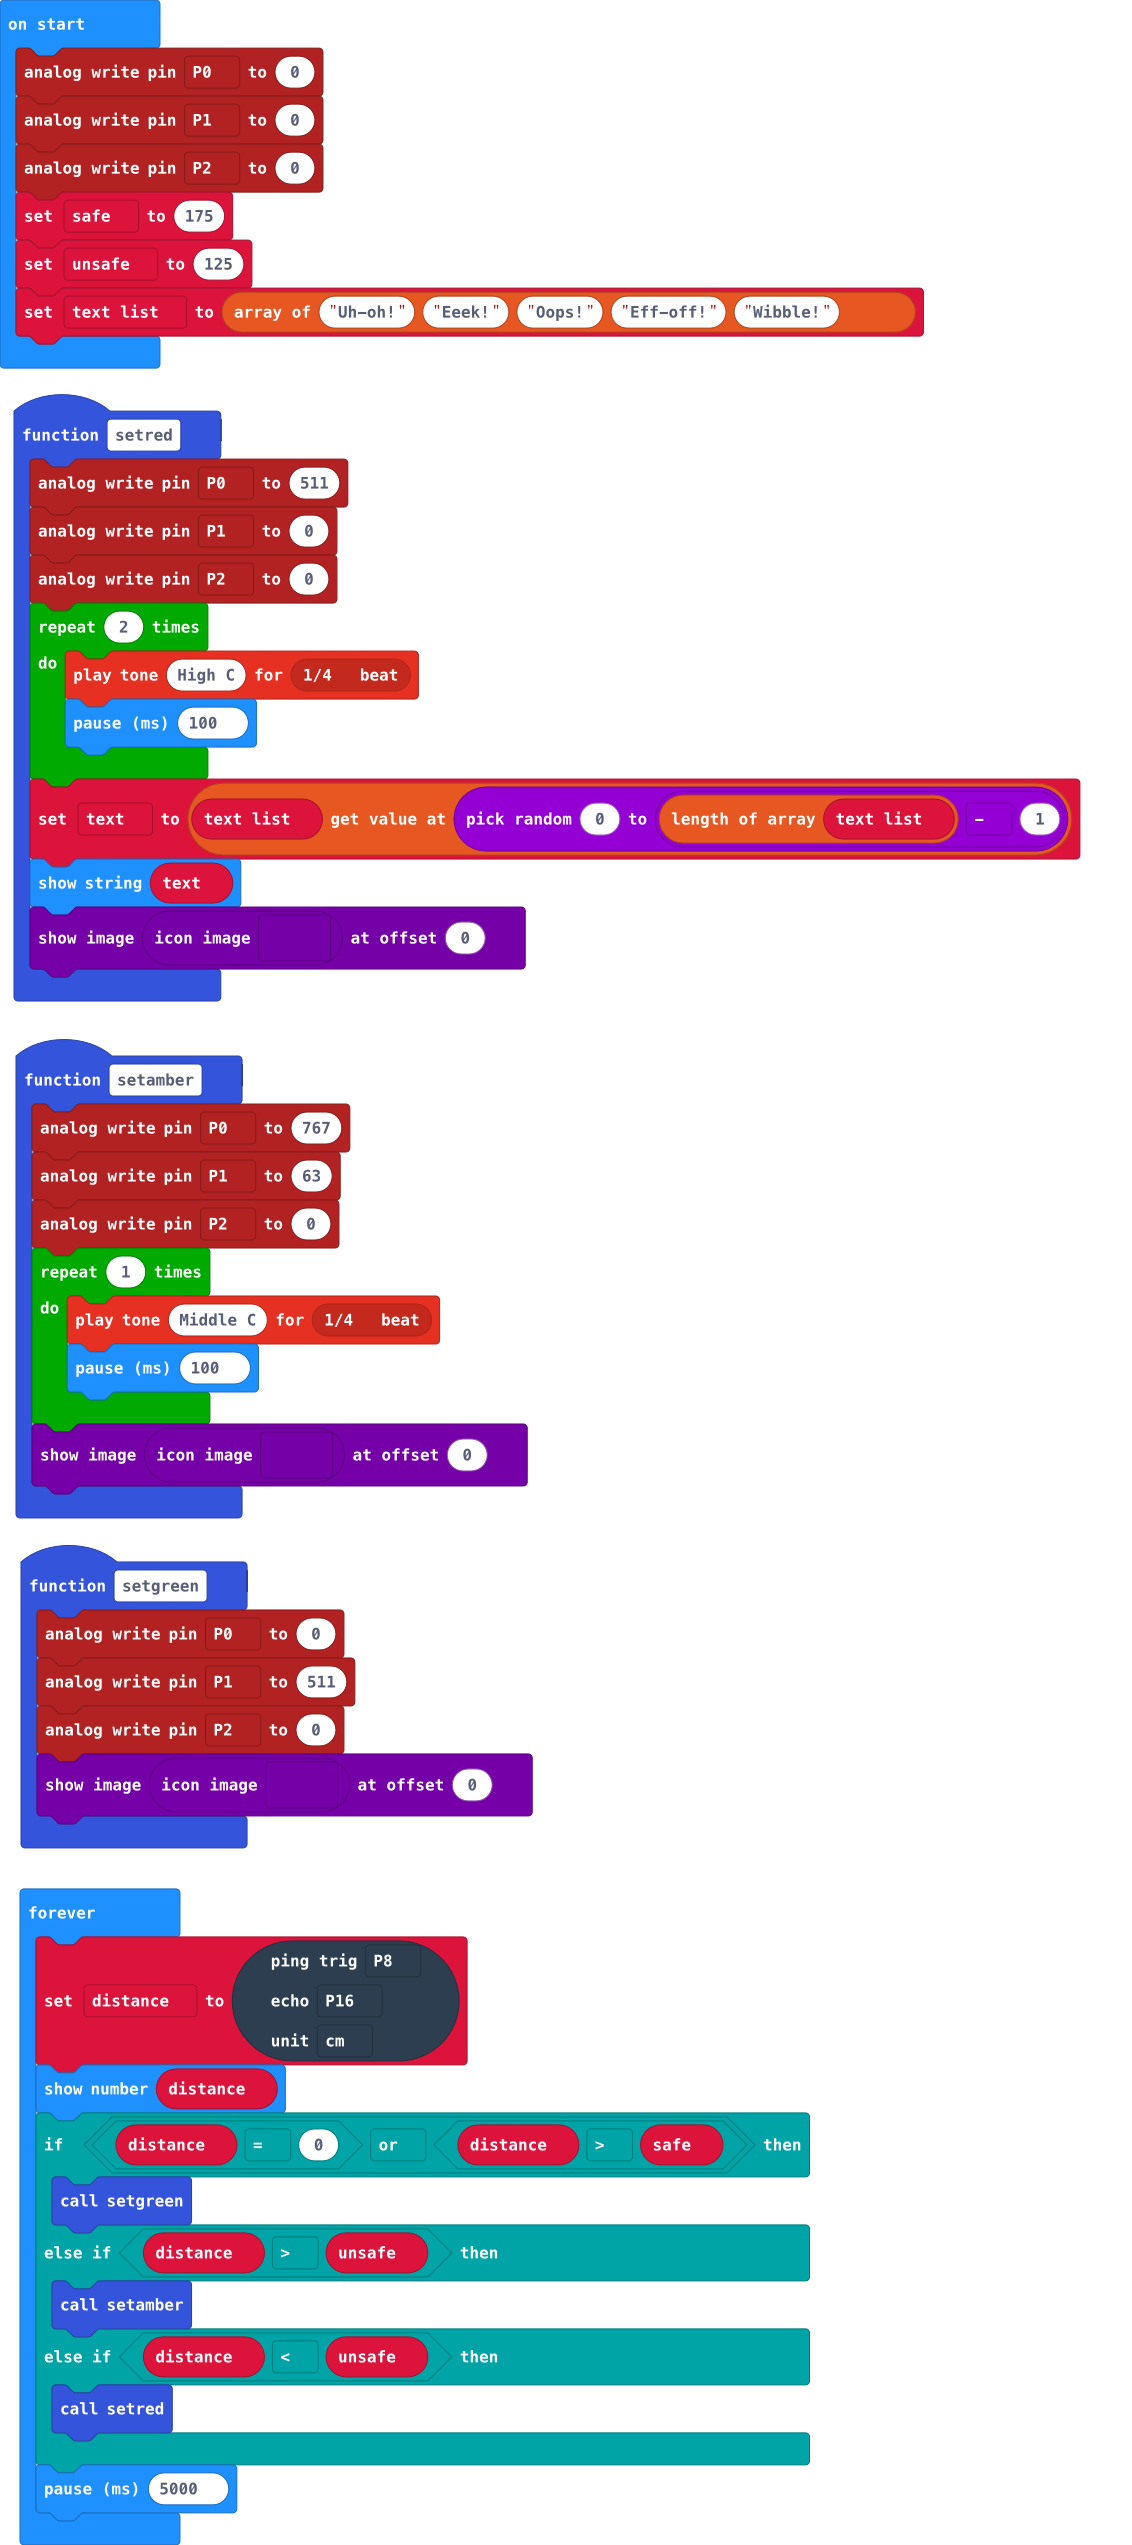
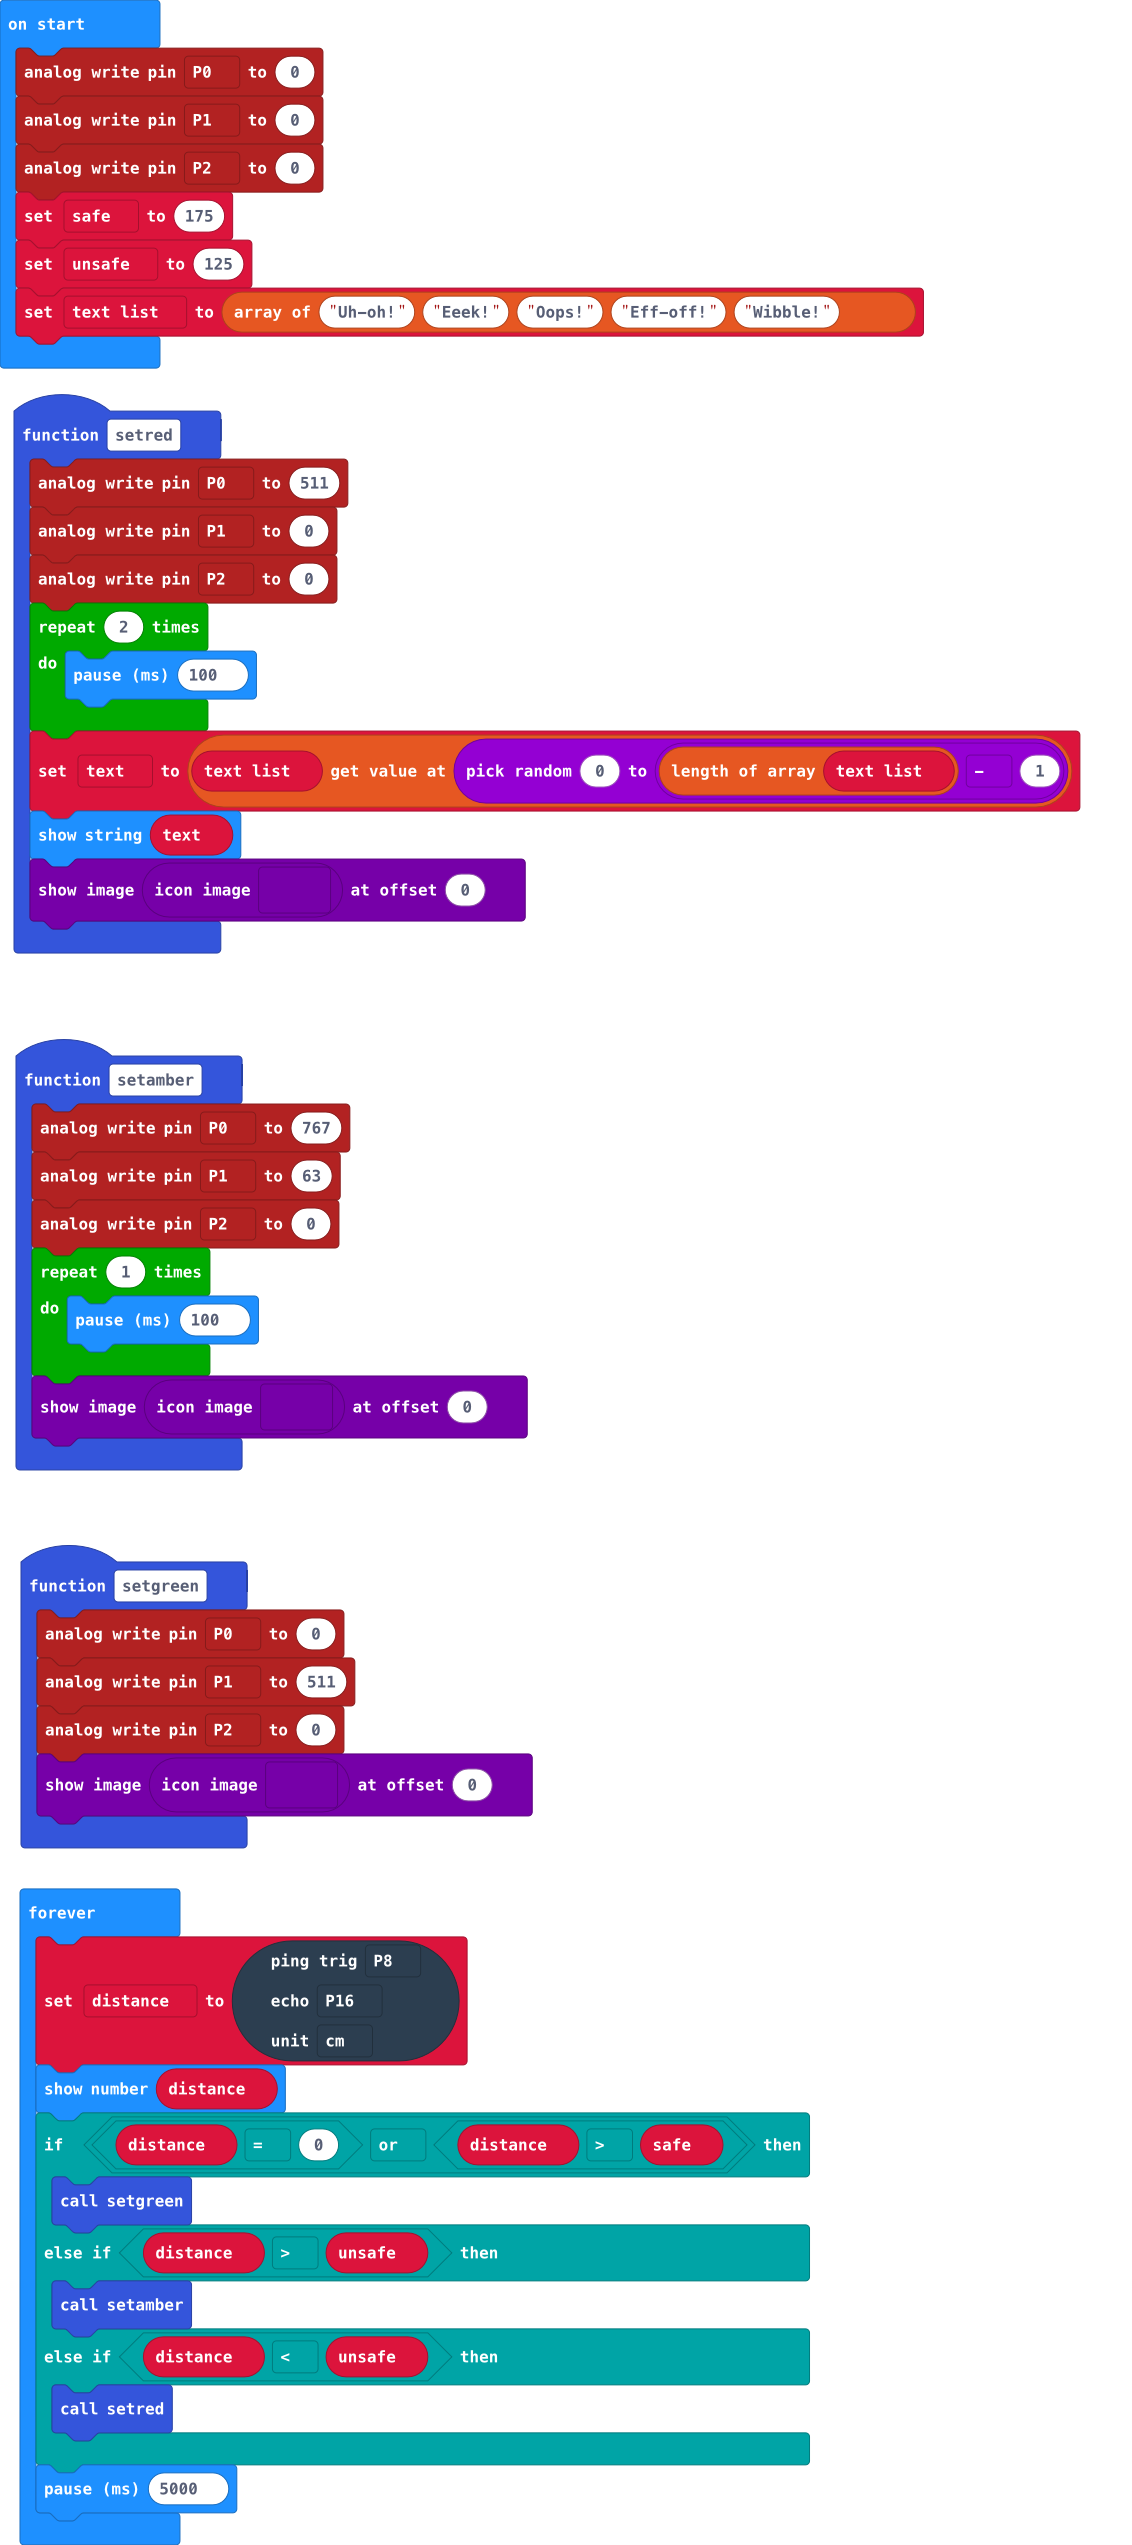
Removed beeps after annoying colleague - who mentioned it :)

Changed region(s): [[0.0, 0.2483, 0.9585, 0.4035], [0.0, 0.4967, 0.4638, 0.6208]]

diff --git a/main.ts b/main.ts
@@ -3,7 +3,6 @@ function setamber () {
     pins.analogWritePin(AnalogPin.P1, 63)
     pins.analogWritePin(AnalogPin.P2, 0)
     for (let index = 0; index < 1; index++) {
-        music.playTone(262, music.beat(BeatFraction.Quarter))
         basic.pause(100)
     }
     images.iconImage(IconNames.Sad).showImage(0)
@@ -13,7 +12,6 @@ function setred () {
     pins.analogWritePin(AnalogPin.P1, 0)
     pins.analogWritePin(AnalogPin.P2, 0)
     for (let index = 0; index < 2; index++) {
-        music.playTone(523, music.beat(BeatFraction.Quarter))
         basic.pause(100)
     }
     text = text_list[randint(0, text_list.length - 1)]
